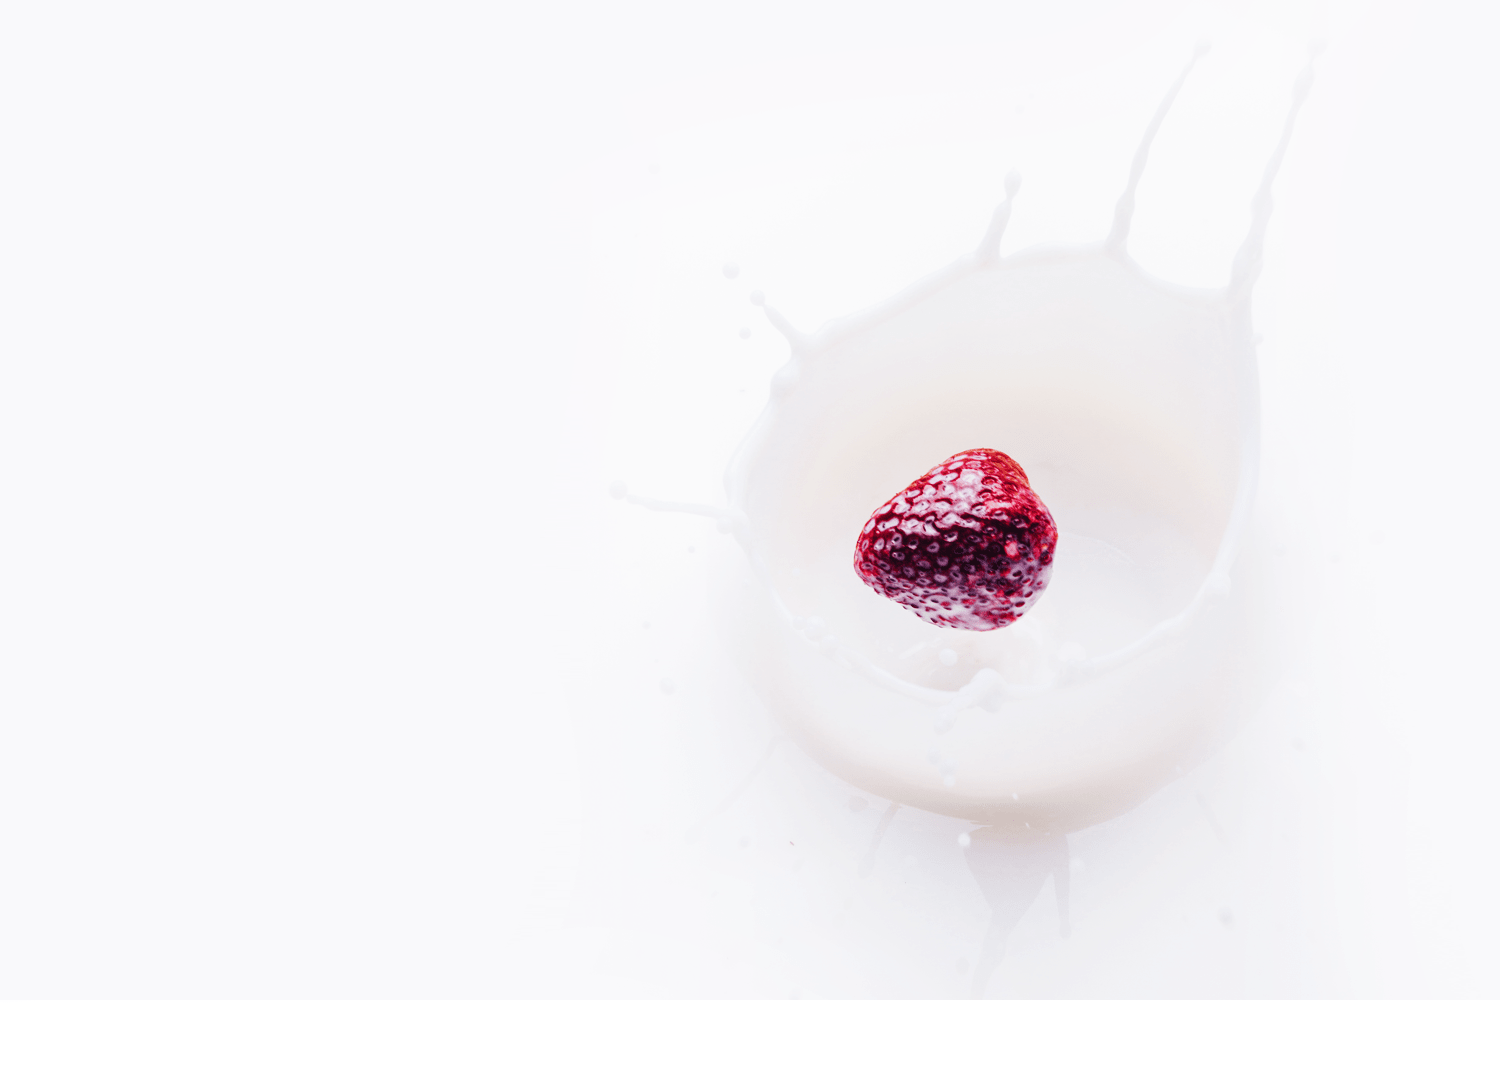
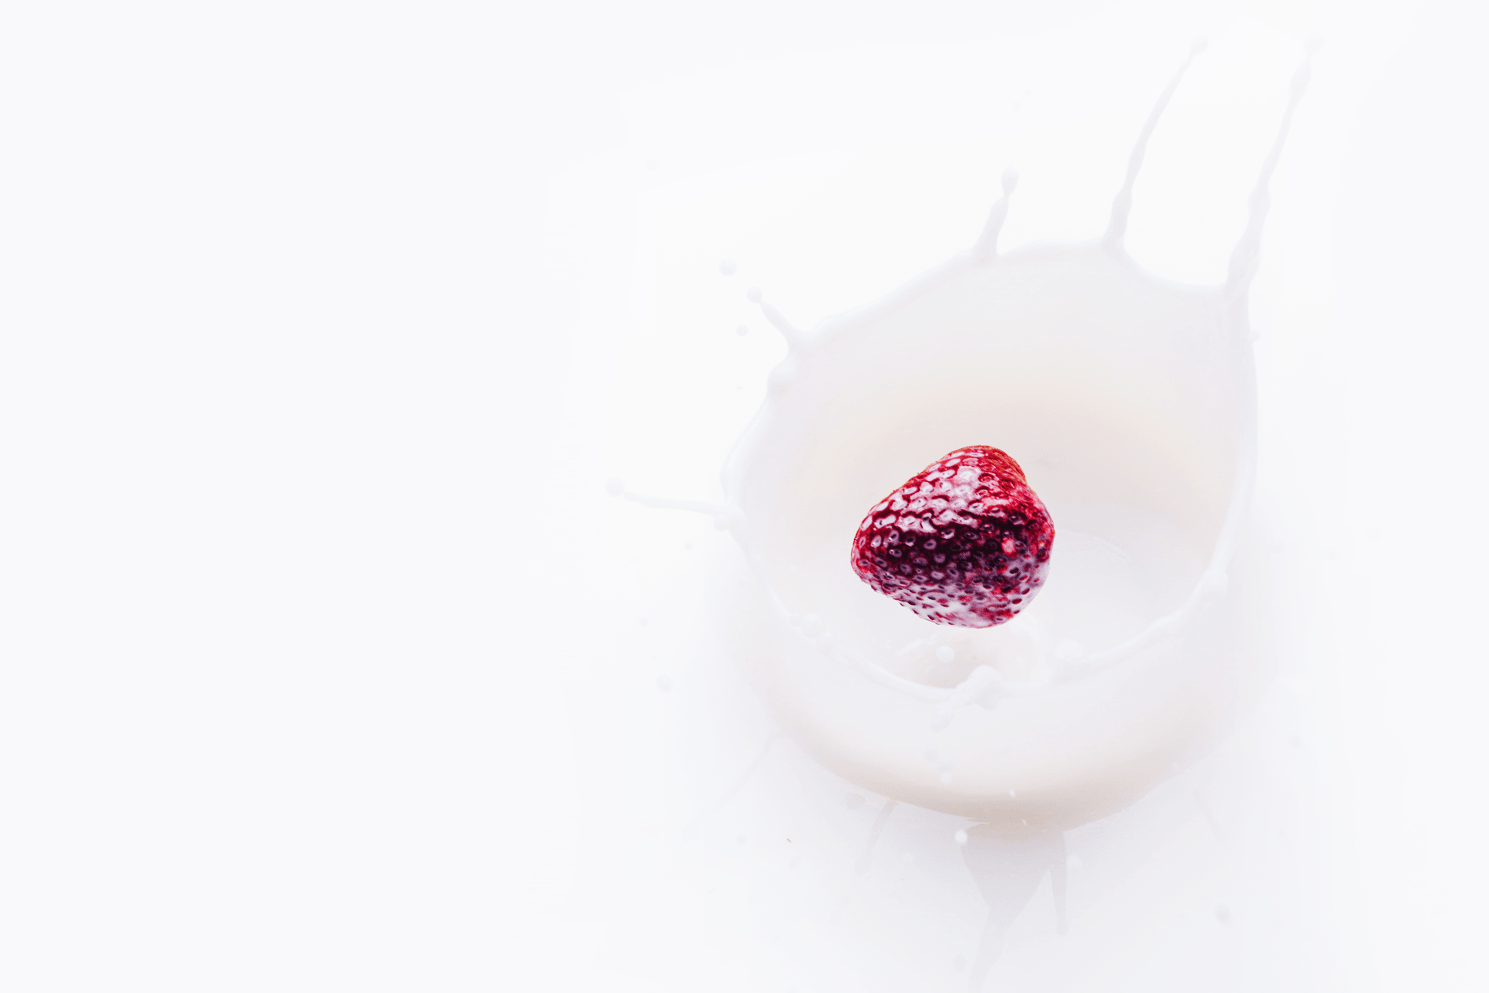
add menu

Changed region(s): [[0.5561, 0.4058, 0.7105, 0.6556], [0.5561, 0.718, 0.7723, 0.8741], [0.6488, 0.9053, 0.6797, 0.9366]]

diff --git a/index.html b/index.html
@@ -1,13 +1,33 @@
 <!DOCTYPE html>
 <html lang="en">
+
 <head>
     <meta charset="UTF-8">
     <meta name="viewport" content="width=device-width, initial-scale=1.0">
     <title>Project 1</title>
+    <link rel="stylesheet" href="/css/style.css">
 </head>
-<body>
-    
 
-    
+<body>
+
+    <header class="header">
+        <div class="container">
+            <nav class="navbar">
+                <div class="navbar__logo">Cashee</div>
+                <div class="navbar__container">
+                    <ul class="navbar__items">
+                        <li class="navbar_item"><a href="home">home</a></li>
+                        <li class="navbar_item"><a href="home">about</a></li>
+                        <li class="navbar_item"><a href="home">services</a></li>
+                        <li class="navbar_item"><a href="home">gallery</a></li>
+                        <li class="navbar_item"><a href="home">blog</a></li>
+                        <li class="navbar_item"><a href="home">contact</a></li>
+                    </ul>
+                </div>
+            </nav>
+        </div>
+    </header>
+
 </body>
+
 </html>

diff --git a/css/style.css b/css/style.css
@@ -1,0 +1,33 @@
+* {
+  margin: 0;
+  padding: 0;
+  -webkit-box-sizing: border-box;
+          box-sizing: border-box;
+}
+
+.header {
+  width: 100vw;
+  height: 100vh;
+  background-image: url(/img/strawberry.png);
+  background-size: 100% 100%;
+  display: -webkit-box;
+  display: -ms-flexbox;
+  display: flex;
+  -webkit-box-pack: center;
+      -ms-flex-pack: center;
+          justify-content: center;
+}
+
+.header .container {
+  width: 1200px;
+}
+
+.header .container .navbar {
+  display: -webkit-box;
+  display: -ms-flexbox;
+  display: flex;
+  -webkit-box-pack: justify;
+      -ms-flex-pack: justify;
+          justify-content: space-between;
+}
+/*# sourceMappingURL=style.css.map */

diff --git a/style.scss b/style.scss
@@ -1,0 +1,24 @@
+* {
+    margin: 0;
+    padding: 0;
+    box-sizing: border-box;
+}
+
+.header {
+    width: 100vw;
+    height: 100vh;
+    background-image: url(/img/strawberry.png);
+    background-size: 100% 100%;
+    display: flex;
+    justify-content: center;
+
+    .container {
+        width: 1200px;
+
+        .navbar {
+            display: flex;
+            justify-content: space-between;
+
+        }
+    }
+}
